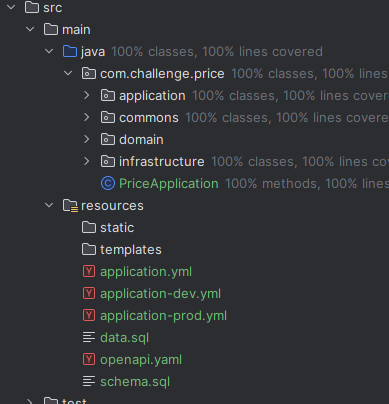
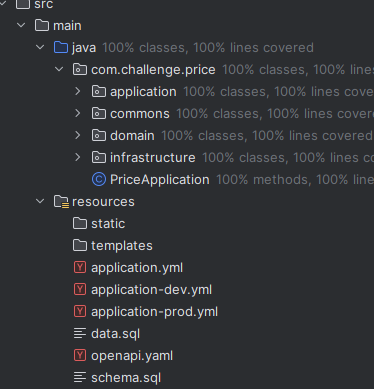
[DEV] Implementation pattern factory and strategy,added Jmeter

Changed region(s): [[0.0, 0.0, 1.0, 1.0], [0.6176, 0.2776, 1.0, 0.3085]]

diff --git a/src/test/java/com/challenge/price/application/service/PriceServiceTest.java b/src/test/java/com/challenge/price/application/service/PriceServiceTest.java
@@ -1,12 +1,17 @@
 package com.challenge.price.application.service;
 
+import static org.junit.jupiter.api.Assertions.assertEquals;
 import static org.junit.jupiter.api.Assertions.assertNotNull;
 import static org.junit.jupiter.api.Assertions.assertThrows;
+import static org.mockito.ArgumentMatchers.any;
+import static org.mockito.Mockito.never;
 import static org.mockito.Mockito.verify;
 import static org.mockito.Mockito.when;
 
 import com.challenge.price.application.output.PricePort;
 import com.challenge.price.application.service.mapper.PriceMapper;
+import com.challenge.price.domain.strategy.PriceStrategy;
+import com.challenge.price.domain.strategy.PriceStrategyFactory;
 import com.challenge.price.commons.exception.BusinessException;
 import com.challenge.price.domain.PriceModel;
 import com.challenge.price.server.models.PriceDto;
@@ -44,6 +49,12 @@ class PriceServiceTest {
   @Mock
   private PricePort pricePort;
 
+  @Mock
+  private PriceStrategyFactory priceStrategyFactory;
+
+  @Mock
+  private PriceStrategy priceStrategy;
+
   @Spy
   private PriceMapper priceMapper = Mappers.getMapper(PriceMapper.class);
 
@@ -70,10 +81,18 @@ class PriceServiceTest {
     when(pricePort.getPrices(currentDate, PRODUCT_ID, BRAND_ID))
         .thenReturn(List.of(lowPriority, highPriority));
 
+    when(priceStrategyFactory.resolve(List.of(lowPriority, highPriority)))
+        .thenReturn(priceStrategy);
+
+    when(priceStrategy.apply(List.of(lowPriority, highPriority)))
+        .thenReturn(PriceDto.builder().price(HIGH_PRICE).productId(HIGH_PRIORITY_ID).build());
+
     PriceDto result = priceService.getPrice(currentDate, PRODUCT_ID, BRAND_ID);
 
     assertNotNull(result);
-    verify(pricePort).getPrices(currentDate, PRODUCT_ID, BRAND_ID);
+    assertEquals(HIGH_PRICE, result.getPrice());
+    verify(priceStrategyFactory).resolve(List.of(lowPriority, highPriority));
+    verify(priceStrategy).apply(List.of(lowPriority, highPriority));
   }
 
   @Test
@@ -82,8 +101,11 @@ class PriceServiceTest {
     when(pricePort.getPrices(currentDate, PRODUCT_ID, BRAND_ID))
         .thenReturn(Collections.emptyList());
 
-    assertThrows(BusinessException.class, () -> priceService.getPrice(currentDate, PRODUCT_ID, BRAND_ID));
+    assertThrows(BusinessException.class,
+        () -> priceService.getPrice(currentDate, PRODUCT_ID, BRAND_ID));
     verify(pricePort).getPrices(currentDate, PRODUCT_ID, BRAND_ID);
+    verify(priceStrategyFactory, never()).resolve(any());
+    verify(priceStrategy, never()).apply(any());
   }
 
   @Test
@@ -98,9 +120,17 @@ class PriceServiceTest {
     when(pricePort.getPrices(currentDate, PRODUCT_ID, BRAND_ID))
         .thenReturn(List.of(singlePriceModel));
 
+    when(priceStrategyFactory.resolve(List.of(singlePriceModel)))
+        .thenReturn(priceStrategy);
+
+    when(priceStrategy.apply(List.of(singlePriceModel)))
+        .thenReturn(PriceDto.builder().price(SINGLE_PRICE).productId(SINGLE_PRICE_ID).build());
+
     PriceDto result = priceService.getPrice(currentDate, PRODUCT_ID, BRAND_ID);
 
     assertNotNull(result);
-    verify(pricePort).getPrices(currentDate, PRODUCT_ID, BRAND_ID);
+    assertEquals(SINGLE_PRICE, result.getPrice());
+    verify(priceStrategyFactory).resolve(List.of(singlePriceModel));
+    verify(priceStrategy).apply(List.of(singlePriceModel));
   }
 }

diff --git a/src/main/java/com/challenge/price/application/service/PriceService.java b/src/main/java/com/challenge/price/application/service/PriceService.java
@@ -2,14 +2,12 @@ package com.challenge.price.application.service;
 
 import com.challenge.price.application.input.PriceUseCase;
 import com.challenge.price.application.output.PricePort;
-import com.challenge.price.application.service.mapper.PriceMapper;
+import com.challenge.price.domain.strategy.PriceStrategyFactory;
 import com.challenge.price.commons.exception.BusinessException;
 import com.challenge.price.commons.exception.message.BusinessErrorMessage;
-import com.challenge.price.domain.PriceModel;
 import com.challenge.price.server.models.PriceDto;
 import java.time.LocalDateTime;
-import java.util.Comparator;
-import java.util.List;
+import java.util.Optional;
 import lombok.RequiredArgsConstructor;
 import org.springframework.stereotype.Service;
 
@@ -19,18 +17,14 @@ public class PriceService implements PriceUseCase {
 
   private final PricePort port;
 
-  private final PriceMapper mapper;
+  private final PriceStrategyFactory strategyFactory;
 
   @Override
   public PriceDto getPrice(LocalDateTime date, Long productId, Long brandId) {
-    List<PriceModel> priceModelApply = port.getPrices(date, productId, brandId);
-
-    if (priceModelApply.isEmpty()) {
-      throw new BusinessException(BusinessErrorMessage.PRICE_APPLY_NOT_FOUND);
-    }
-
-    return mapper.toDto(
-        priceModelApply.stream().max(Comparator.comparingInt(PriceModel::getPriority))
-            .orElseThrow(() -> new BusinessException(BusinessErrorMessage.PRICE_APPLY_ERROR)));
+    return Optional.ofNullable(port.getPrices(date, productId, brandId))
+        .filter(prices -> !prices.isEmpty())
+        .map(strategyFactory::resolve)
+        .map(strategy -> strategy.apply(port.getPrices(date, productId, brandId)))
+        .orElseThrow(() -> new BusinessException(BusinessErrorMessage.PRICE_APPLY_NOT_FOUND));
   }
 }

diff --git a/src/main/java/com/challenge/price/domain/strategy/DefaultPriceStrategy.java b/src/main/java/com/challenge/price/domain/strategy/DefaultPriceStrategy.java
@@ -1,0 +1,32 @@
+package com.challenge.price.domain.strategy;
+
+import com.challenge.price.application.service.mapper.PriceMapper;
+import com.challenge.price.commons.exception.BusinessException;
+import com.challenge.price.commons.exception.message.BusinessErrorMessage;
+import com.challenge.price.domain.PriceModel;
+import com.challenge.price.server.models.PriceDto;
+import java.util.Comparator;
+import java.util.List;
+import lombok.RequiredArgsConstructor;
+import org.springframework.stereotype.Component;
+
+@Component
+@RequiredArgsConstructor
+public class DefaultPriceStrategy implements PriceStrategy {
+
+  private final PriceMapper mapper;
+
+  @Override
+  public boolean isApplicable(List<PriceModel> prices) {
+    return true;
+  }
+
+  @Override
+  public PriceDto apply(List<PriceModel> prices) {
+    return mapper.toDto(
+        prices.parallelStream()
+            .max(Comparator.comparingInt(PriceModel::getPriority))
+            .orElseThrow(() -> new BusinessException(BusinessErrorMessage.PRICE_APPLY_ERROR))
+    );
+  }
+}

diff --git a/src/main/java/com/challenge/price/infrastructure/input/adapter/rest/resources/PriceController.java b/src/main/java/com/challenge/price/infrastructure/input/adapter/rest/resources/PriceController.java
@@ -6,13 +6,11 @@ import com.challenge.price.server.PriceApi;
 import com.challenge.price.server.models.PriceDto;
 import java.time.LocalDateTime;
 import lombok.RequiredArgsConstructor;
-import lombok.extern.slf4j.Slf4j;
 import org.springframework.http.ResponseEntity;
 import org.springframework.web.bind.annotation.CrossOrigin;
 import org.springframework.web.bind.annotation.RequestMethod;
 import org.springframework.web.bind.annotation.RestController;
 
-@Slf4j
 @RestController
 @CrossOrigin(origins = Constants.APP_SAFE, methods = RequestMethod.GET)
 @RequiredArgsConstructor
@@ -22,7 +20,6 @@ public class PriceController implements PriceApi {
 
   @Override
   public ResponseEntity<PriceDto> getPriceApply(LocalDateTime date, Long productId, Long brandId) {
-    log.info("Consulta de precio para el producto {} y la marca {}", productId, brandId);
     return ResponseEntity.ok(useCase.getPrice(date, productId, brandId));
   }
 }

diff --git a/src/main/java/com/challenge/price/domain/strategy/PriceStrategyFactory.java b/src/main/java/com/challenge/price/domain/strategy/PriceStrategyFactory.java
@@ -1,0 +1,22 @@
+package com.challenge.price.domain.strategy;
+
+import com.challenge.price.commons.exception.BusinessException;
+import com.challenge.price.commons.exception.message.BusinessErrorMessage;
+import com.challenge.price.domain.PriceModel;
+import java.util.List;
+import lombok.RequiredArgsConstructor;
+import org.springframework.stereotype.Component;
+
+@Component
+@RequiredArgsConstructor
+public class PriceStrategyFactory {
+
+  private final List<PriceStrategy> strategies;
+
+  public PriceStrategy resolve(List<PriceModel> prices) {
+    return strategies.stream()
+        .filter(strategy -> strategy.isApplicable(prices))
+        .findFirst()
+        .orElseThrow(() -> new BusinessException(BusinessErrorMessage.PRICE_APPLY_ERROR));
+  }
+}

diff --git a/src/main/java/com/challenge/price/domain/strategy/PriceStrategy.java b/src/main/java/com/challenge/price/domain/strategy/PriceStrategy.java
@@ -1,0 +1,10 @@
+package com.challenge.price.domain.strategy;
+
+import com.challenge.price.domain.PriceModel;
+import com.challenge.price.server.models.PriceDto;
+import java.util.List;
+
+public interface PriceStrategy {
+    boolean isApplicable(List<PriceModel> prices);
+    PriceDto apply(List<PriceModel> prices);
+}

diff --git a/README.md b/README.md
@@ -16,6 +16,8 @@ Comercio electrónico de precios
 - **Repositorio GitHub**: [challenge-price](https://github.com/JonathanJulio03/challenge-price)
 - **Swagger UI (Documentación de API)**: [https://challenge-test.online/swagger-ui/index.html](https://challenge-test.online/swagger-ui/index.html)
 
+<img src="doc/image/swagger.png" width="800"/>
+
 ---
 
 ## Tabla de Contenido
@@ -27,6 +29,7 @@ Comercio electrónico de precios
     - [Arquitectura Hexagonal](#arquitectura-hexagonal)
 - [CI/CD](#cicd)
   - [GitHub Actions](#github-actions)
+- [Test Jmeter](#jmeter)
 
 ---
 
@@ -88,3 +91,7 @@ El CI/CD realiza las siguientes acciones:
 **Config redirect**
 - sudo nano /etc/nginx/sites-available/default
 - sudo systemctl restart nginx
+
+## Jmeter
+
+<img src="doc/image/jmeter.png" width="800"/>
